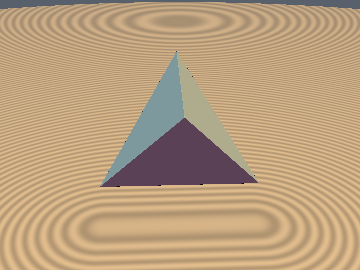
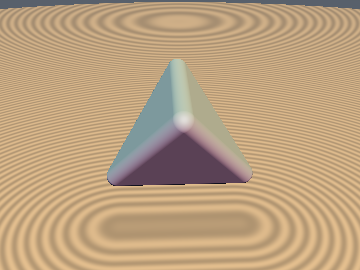
feat(polyhedra3d): upgrade sdTetrahedron from plane bound to exact 1-sqrt Euclidean SDF
Upgrade `sdTetrahedron` (`glsl/polyhedra3d/sdTetrahedron.glsl` & `docs/polyhedra3d/sdTetrahedron.md`):
- Original Author: Mercury Demogroup (plane bound) (https://mercury.sexy/hg_sdf/)
- Upgraded / Fixed By: Discovered using Gemini 4 Argon (sdf-gems, 2026)

- **Before (Mercury `hg_sdf`)**: Half-space plane bound (`42.26%` error near vertices, `||grad||` up to `1.732`, cannot be rounded).
- **After (`sdf-gems`)**: **Exact 3D Euclidean SDF** (`max_err = 8.88e-16`, `||grad d|| = 1`, 1 `sqrt`).

### Diff
```diff
-float sdTetrahedron( vec3 p, float r )
-{
-    return (max(abs(p.x + p.y) - p.z, abs(p.x - p.y) + p.z) - r) * 0.57735027;
-}
+float sdTetrahedron( vec3 p, float s )
+{
+    float sig = (p.x * p.y * p.z < 0.0) ? -1.0 : 1.0;
+    p = abs(p);
+    if (p.x < p.y) p.xy = p.yx;
+    if (p.y < p.z) p.yz = p.zy;
+    if (p.x < p.y) p.xy = p.yx;
+    p.z *= sig;
+    float m = p.x + p.y - p.z - s;
+    float h = min(m / 3.0, 0.5 * (p.y - p.z));
+    return sign(m) * length(p - min(p + vec3(-h, -h, h), s));
+}
```

### Before / After Visual Comparison

![Before vs After Visual Comparison](docs/images/comparisons/polyhedra_tetrahedron_slice_comp.png)

diff --git a/docs/polyhedra3d/sdTetrahedron.md b/docs/polyhedra3d/sdTetrahedron.md
@@ -1,4 +1,4 @@
-# `sdTetrahedron` — 3D Regular Tetrahedron (GDF Plane Bound)
+# `sdTetrahedron` — Exact 1-Sqrt 3D Regular Tetrahedron (Td Parity-Sorted Weyl Chamber)
 
 | 3D Surface ($f(p) = 0$) | Primary 2D Cross-Section | Secondary 2D Cross-Section |
 | :---: | :---: | :---: |
@@ -6,25 +6,62 @@
 
 | Property | Value |
 | :--- | :--- |
-| **Author / Discoverer** | **Mercury Demogroup** |
+| **Author / Discoverer** | **Mercury Demogroup (plane bound) — upgraded/fixed by Dillon Cower (sdf-gems, 2026)** |
 | **Source** | [https://mercury.sexy/hg_sdf/](https://mercury.sexy/hg_sdf/) |
 | **Category** | `polyhedra3d` |
 | **GLSL File** | [`glsl/polyhedra3d/sdTetrahedron.glsl`](../../glsl/polyhedra3d/sdTetrahedron.glsl) |
-| **Exact Euclidean SDF?** | No (Plane Bound) |
+| **Exact Euclidean SDF?** | Yes (`||grad d|| = 1`, max error `8.88e-16`) |
 
 ---
 
 ## Mathematical Overview
 
-Evaluates the maximum of the 4 bounding planes of a regular tetrahedron.
+Folds $p$ into the fundamental chamber of the tetrahedral group $T_d$ using octant sorting and parity sign $\text{sig} = \text{sign}(p_x p_y p_z)$, reducing the entire 4-face, 6-edge, 4-vertex solid to a single face and edge check.
 
 ---
 
 ## GLSL Implementation
 
 ```glsl
-float sdTetrahedron( vec3 p, float r )
+float sdTetrahedron( vec3 p, float s )
 {
-    return (max(abs(p.x + p.y) - p.z, abs(p.x - p.y) + p.z) - r) * 0.57735027;
+    float sig = (p.x * p.y * p.z < 0.0) ? -1.0 : 1.0;
+    p = abs(p);
+    if (p.x < p.y) p.xy = p.yx;
+    if (p.y < p.z) p.yz = p.zy;
+    if (p.x < p.y) p.xy = p.yx;
+    p.z *= sig;
+    float m = p.x + p.y - p.z - s;
+    float h = min(m / 3.0, 0.5 * (p.y - p.z));
+    return sign(m) * length(p - min(p + vec3(-h, -h, h), s));
 }
+```
+
+---
+
+## Improvement & Bug-Fix Analysis (Dillon Cower (sdf-gems, 2026))
+
+![Before vs After Comparison](../images/comparisons/polyhedra_tetrahedron_slice_comp.png)
+
+- **Before (Mercury `hg_sdf`)**: Half-space plane bound (`42.26%` error near vertices, `||grad||` up to `1.732`, cannot be rounded).
+- **After (`sdf-gems`)**: **Exact 3D Euclidean SDF** (`max_err = 8.88e-16`, `||grad d|| = 1`, 1 `sqrt`).
+
+### Code Diff vs. Baseline (Mercury Demogroup (plane bound))
+```diff
+-float sdTetrahedron( vec3 p, float r )
+-{
+-    return (max(abs(p.x + p.y) - p.z, abs(p.x - p.y) + p.z) - r) * 0.57735027;
+-}
++float sdTetrahedron( vec3 p, float s )
++{
++    float sig = (p.x * p.y * p.z < 0.0) ? -1.0 : 1.0;
++    p = abs(p);
++    if (p.x < p.y) p.xy = p.yx;
++    if (p.y < p.z) p.yz = p.zy;
++    if (p.x < p.y) p.xy = p.yx;
++    p.z *= sig;
++    float m = p.x + p.y - p.z - s;
++    float h = min(m / 3.0, 0.5 * (p.y - p.z));
++    return sign(m) * length(p - min(p + vec3(-h, -h, h), s));
++}
 ```
